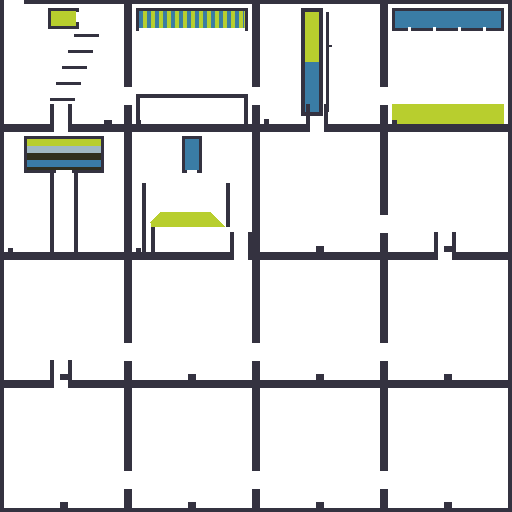
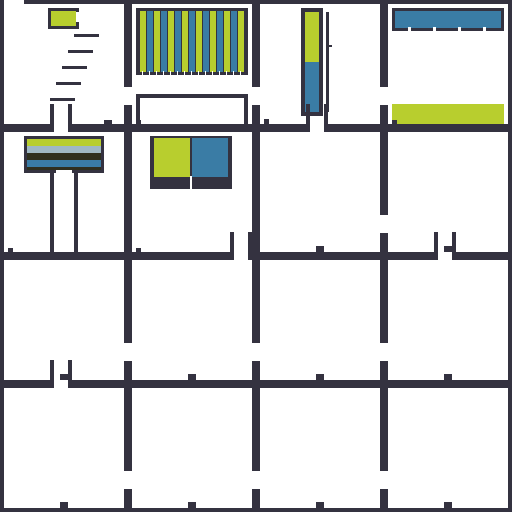
Meter the taps, so the alchemy is still running when a visitor arrives
A tap is a pipette and not a pond: a hole one cell wide passes one cell
a tick, but only a column that stands over its own hole can feed it.
Room 2 is a rack of pipettes, room 6 is two ducts a cell apart, and
room 4 keeps its flat pool to show the seal the other two answer.

Claude-Session: https://claude.ai/code/session_01Wn857aXhuVhAzPu4Nn34x8

Changed region(s): [[0.25, 0.25, 0.4688, 0.5], [0.25, 0.0, 0.5, 0.1562]]

diff --git a/tools/seed_alchemy.py b/tools/seed_alchemy.py
@@ -48,18 +48,31 @@ def build_room_1(cv):
 
 
 def build_room_2(cv):
-    """The mix: a curtain of alternating Attor and water spouts along
-    the ceiling, raining down side by side into one wide basin, the
-    way room 4's field of drips does. Two streams meeting at a single
-    point make one saturated blob of light; a row of them makes a
-    field of sparks the width of the room."""
+    """The mix: a rack of alternating Attor and water pipettes along the
+    ceiling, each dripping through a hole one cell wide into one wide
+    basin. A row of drips makes a field of sparks the width of the
+    room, where two streams meeting at a single point make one
+    saturated blob of light.
+
+    Each pipette is walled off from the one beside it, so the two
+    liquids cannot settle by density into one heavy half and one light
+    half before they drain. Every column keeps what it was drawn with,
+    and the curtain stays alternating for as long as it falls.
+
+    It runs for about as long as the deepest column: 6 by 62 cells is
+    372 of them, and one hole one cell wide passes one a tick.
+    """
     r = Room(cv, 2)
-    r.box(4, 4, 115, 26, BEDROCK)
-    r.box(7, 7, 112, 23, "Attor")
-    for lx in range(7, 112, 4):
-        fill = "Attor" if (lx // 4) % 2 == 0 else "Water"
-        r.box(lx, 7, min(lx + 3, 111), 23, fill)
-    r.box(7, 24, 112, 26, AIR)
+    ceiling_top, ceiling_bottom = 4, 70
+    r.box(4, ceiling_top, 115, ceiling_bottom, BEDROCK)
+
+    n = 0
+    for lx in range(8, 108, 7):
+        fill = "Attor" if n % 2 == 0 else "Water"
+        n += 1
+        r.box(lx, ceiling_top + 3, lx + 5, ceiling_bottom - 3, fill)
+        hole = lx + 2
+        r.box(hole, ceiling_bottom - 3, hole, ceiling_bottom, AIR)
 
     r.box(4, 90, 115, 119, BEDROCK)
     r.box(8, 94, 111, 119, AIR)
@@ -91,8 +104,21 @@ def build_room_3(cv):
 
 
 def build_room_4(cv):
-    """The rain: water drips through a perforated bedrock ceiling into a
-    shallow pool of Attor: a slow, unending field of sparks."""
+    """The rain, and the seal: water rains through a perforated ceiling
+    onto a shallow pool of Attor. For the first hundred ticks the whole
+    width of the pool sparks. Then it stops, and it never starts again.
+
+    This room is the lesson the other two are built to answer, and it
+    is left as it is on purpose. Water is lighter than Attor and floats
+    on it, and the Smylt the two make is heavier than water and lighter
+    than Attor, so it settles exactly between them. The pool caps
+    itself with its own product wherever a drop lands. Nothing here is
+    used up: the pool is still poison and the rain is still water, and
+    they can no longer reach each other.
+
+    Room 2 and room 6 answer it by never letting the two meet anywhere
+    but in the air. See docs/alchemy.md, "Layering seals a slow drip".
+    """
     r = Room(cv, 4)
     r.tank(4, 4, 115, 26, "Water", wall=3, hole_side=None)
     for hx in (20, 45, 70, 95):
@@ -121,52 +147,39 @@ def build_room_5(cv):
 
 
 def build_room_6(cv):
-    """The dark: a reservoir empties through a chute onto a shallow
-    ridge of Attor, sloped down to the floor on both sides. Both the
-    reservoir and the pool are wholly inside this room's own walls,
-    and the room has no door to either neighbour, so the sparks are
-    the only light there is.
+    """The dark: two chambers in the ceiling, one of Attor and one of
+    water, each draining down a duct one cell wide. The two ducts come
+    out side by side, so the two liquids fall as neighbouring columns
+    for the whole depth of the room and react the whole way down. What
+    the visitor sees is a ribbon of sparks hanging in a black room, and
+    nothing else: this room has no door to either neighbour, and it
+    reaches the museum by a shaft down to an unlit hall.
 
-    A single drip over a flat, deep pool seals its own front: the
-    Smylt it makes is denser than water and lighter than Attor, so it
-    settles between the two exactly where the drop landed, and the
-    reaction stops touching anything new there. See docs/alchemy.md,
-    "Layering seals a slow drip", for the measurement behind this
-    shape. A slope is the fix that measures out true: Smylt formed on
-    a slope slides away from the drop point instead of capping it, so
-    the drip goes on meeting fresh Attor for as long as the slope
-    still has any, not just for the one tick the first drop lands.
+    Every other room learns the same lesson the hard way. A drip onto
+    a pool seals its own front, because the Smylt it makes is denser
+    than water and lighter than Attor and settles between the two
+    exactly where the drop landed. See docs/alchemy.md, "Layering
+    seals a slow drip". Nothing settles here, because the two never
+    meet anywhere but in the air.
+
+    A duct one cell wide passes one cell a tick, so a chamber of about
+    1400 cells runs for about 1400 ticks a side.
     """
     r = Room(cv, 6)
 
-    # A deep reservoir, centred in the room, so it lasts. A ten cell
-    # chute under it, not a single narrow hole: measured against a one
-    # cell hole, the wide chute is what let the drop spread across the
-    # whole ridge below rather than punching straight through it.
-    r.tank(50, 4, 69, 40, "Water", wall=3, hole_side="bottom", hole_lo=55, hole_hi=64)
-    r.box(50, 41, 69, 50, AIR)
+    DUCT_A, DUCT_B = 58, 59
+    top, bottom = 6, 44
+    mouth = 56  # where both ducts open into the room
 
-    # The basin: a shallow ridge of Attor under the chute, sloped down
-    # to the floor on both sides, walled in, with a drain at the left
-    # end into the sump below. Kept clear of the shaft down to room
-    # 10, at the room's right edge.
-    r.box(10, 51, 97, 94, BEDROCK)
-    r.box(14, 51, 93, 94, AIR)
-    for lx in range(14, 54):
-        rise = min(lx - 14, 14)
-        r.box(lx, 94 - rise, lx, 94, "Attor")
-    for lx in range(54, 94):
-        rise = min(92 - lx, 14)
-        r.box(lx, 94 - rise, lx, 94, "Attor")
-    r.box(14, 91, 18, 94, AIR)
+    r.box(18, 4, 99, mouth, BEDROCK)
+    r.box(22, top, DUCT_A - 1, bottom, "Attor")
+    r.box(DUCT_B + 1, top, 95, bottom, "Water")
 
-    # The sump: a walled shaft straight down from the drain, far from
-    # the shaft down to room 10, so what drains here has nowhere to go
-    # but down, out of the room's own light.
-    r.box(10, 95, 13, 119, BEDROCK)
-    r.box(19, 95, 22, 119, BEDROCK)
+    r.box(DUCT_A, bottom, DUCT_A, mouth, AIR)
+    r.box(DUCT_B, bottom, DUCT_B, mouth, AIR)
 
     r.plinth(4, w=5, h=4)
+
 
 def build_hall(n):
     """An empty, walled, doored hall with a plinth: room for what comes

diff --git a/docs/alchemy.md b/docs/alchemy.md
@@ -107,20 +107,43 @@ Widening the hole, deepening the reservoir, and adding more of them all
 change how much reacts in the burst; none of them make the burst last
 longer, because the seal does not care how much water is still coming.
 
-The fix is a slope, not a bigger reservoir. `Smylt` formed on a slope
-slides away from the drop point under its own weight instead of
-capping it, so the drop goes on meeting `Attor` that slid there
-already exposed, for as long as the slope still has any. Room 6, "the
-dark", is built on exactly this: a ridge of `Attor`, not a flat pool,
-under the drip. Measured on the shipped room, the burst runs from
-about tick 10 to about tick 150 and is quiet before and after; a lit
-shot at 100 ticks catches it and shots at 300, 800 and 2000 do not,
-which is the same finding said in a picture. A field that stayed lit
-for thousands of ticks from one reservoir would need either an
-emitter, which nothing in this world has, or a reservoir and a slope
-long enough to hold thousands of ticks of throughput, which does not
-fit in one room. What a room this size can honestly show is a real
-burst with a real cause, not an unending one.
+The fix is not a bigger reservoir, and it is not a slope either. A
+slope helps a little, because `Smylt` formed on one slides away from
+the drop point instead of capping it, but it only puts the seal off:
+the slope silts up with its own product from the bottom, and the room
+goes quiet again. The fix is to give the two liquids nowhere to
+settle. **They must meet in the air and nowhere else.** Room 2 rains
+`Attor` and water down side by side into one basin, and room 6 drops
+them as two neighbouring columns the whole depth of a dark room.
+Neither reaction ever stands on anything: what a drop leaves behind
+falls away from the front instead of over it, and the room runs for as
+long as the taps have anything in them.
+
+Room 4 is left as a flat pool under rain on purpose, so the museum
+shows the trap as well as the answer to it. It sparks the width of its
+pool for about a hundred ticks and is then still for ever, with a pool
+of poison and a rain of water that can no longer reach each other.
+
+### A tap is a pipette, not a pond
+
+How long an exhibit runs is a number chosen when it is drawn:
+
+    ticks it runs = cells in the tap / cells across its hole
+
+A hole one cell wide passes at most one cell a tick, because one cell
+is all that fits through it in a step. That is the whole meter, and it
+is why room 2's rack of pipettes runs for about 370 ticks and room 6's
+two chambers for about 1400 each.
+
+The shape of the tap matters as much as the size of the hole. A wide
+tank over a narrow hole does **not** drain at one cell a tick: a
+liquid only moves sideways into a cell that has nothing claiming the
+cell above it, so a full tank cannot walk its bottom row across to the
+hole, and it drains at the speed its surface can spread instead —
+slower, and slower still the wider it is. A tall narrow column over
+its own hole has every cell standing over the hole already. So a tap
+that has to keep time is a pipette; a tank that only has to look full
+is a pond.
 
 ## The light of a sparkle
 
@@ -237,16 +260,17 @@ be filled as the alchemy grows.
 | # | Room | What it shows | What starts it |
 | --- | --- | --- | --- |
 | 1 | Attor | A tank of poison pours down a stair into a basin. No water, no light: this is the liquid on its own | gravity |
-| 2 | The mix | An Attor tap and a water tap over one basin. They meet in the air, the sparks flash, and Smylt pools under them | gravity |
+| 2 | The mix | A rack of alternating Attor and water pipettes rains the two down side by side into one basin. Sparks the width of the room, for about 370 ticks | gravity |
 | 3 | The measure | Three parts Attor sealed over three parts water in a graduated tube, against a bedrock scale. What is left stands at four | gravity |
-| 4 | The rain | Water drips through a perforated bedrock ceiling into a shallow pool of Attor: a slow, unending field of sparks | gravity |
+| 4 | The rain, and the seal | Water rains onto a flat pool of Attor. It sparks the width of the pool for about a hundred ticks, and is then still for ever. The trap the other rooms are built to answer | gravity |
 | 5 | Layers | Oil, water, Smylt and Attor pour into one tank and settle in four bands, in the order the densities say | gravity |
-| 6 | The dark | A sealed chamber with one drip in the middle of it. The sparks are the only light there is | gravity |
+| 6 | The dark | Two ducts a cell apart drop Attor and water down a black room as neighbouring columns. A ribbon of sparks and nothing else, for about 1400 ticks | gravity |
 | 7-16 | Halls | Empty, walled, doored, with a plinth. Room for what comes next | — |
 
 Room 6 is the room this whole note is for. Shoot it with the lighting
-on and nothing else in the frame, and the sparks either read as
-fireflies over a dark pool or the numbers above are wrong.
+on and nothing else in the frame: a ribbon of sparks hangs down the
+middle of a black room, and the light of it reaches the two chambers
+that feed it and nothing further.
 
 ## Looking at it
 
